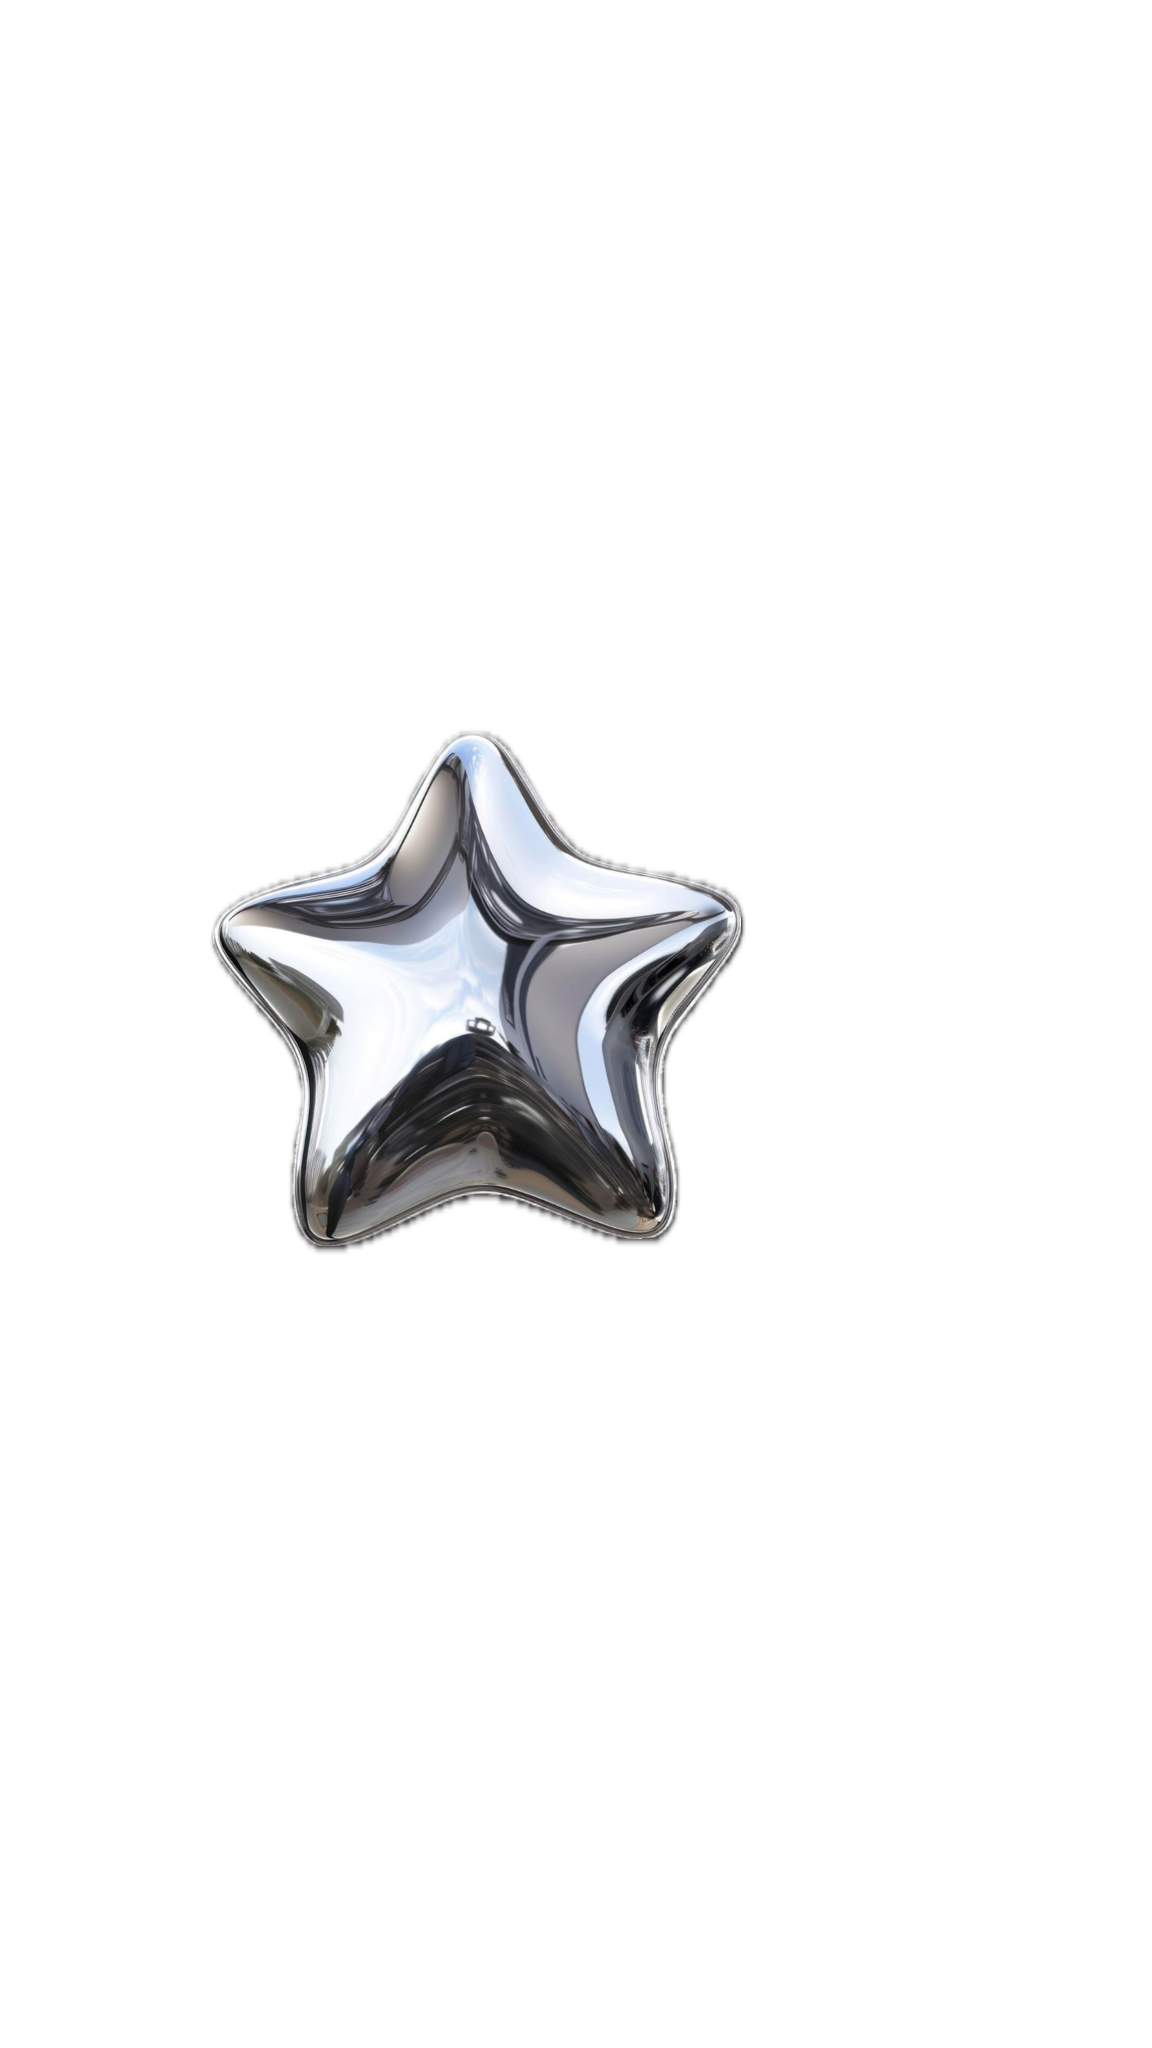
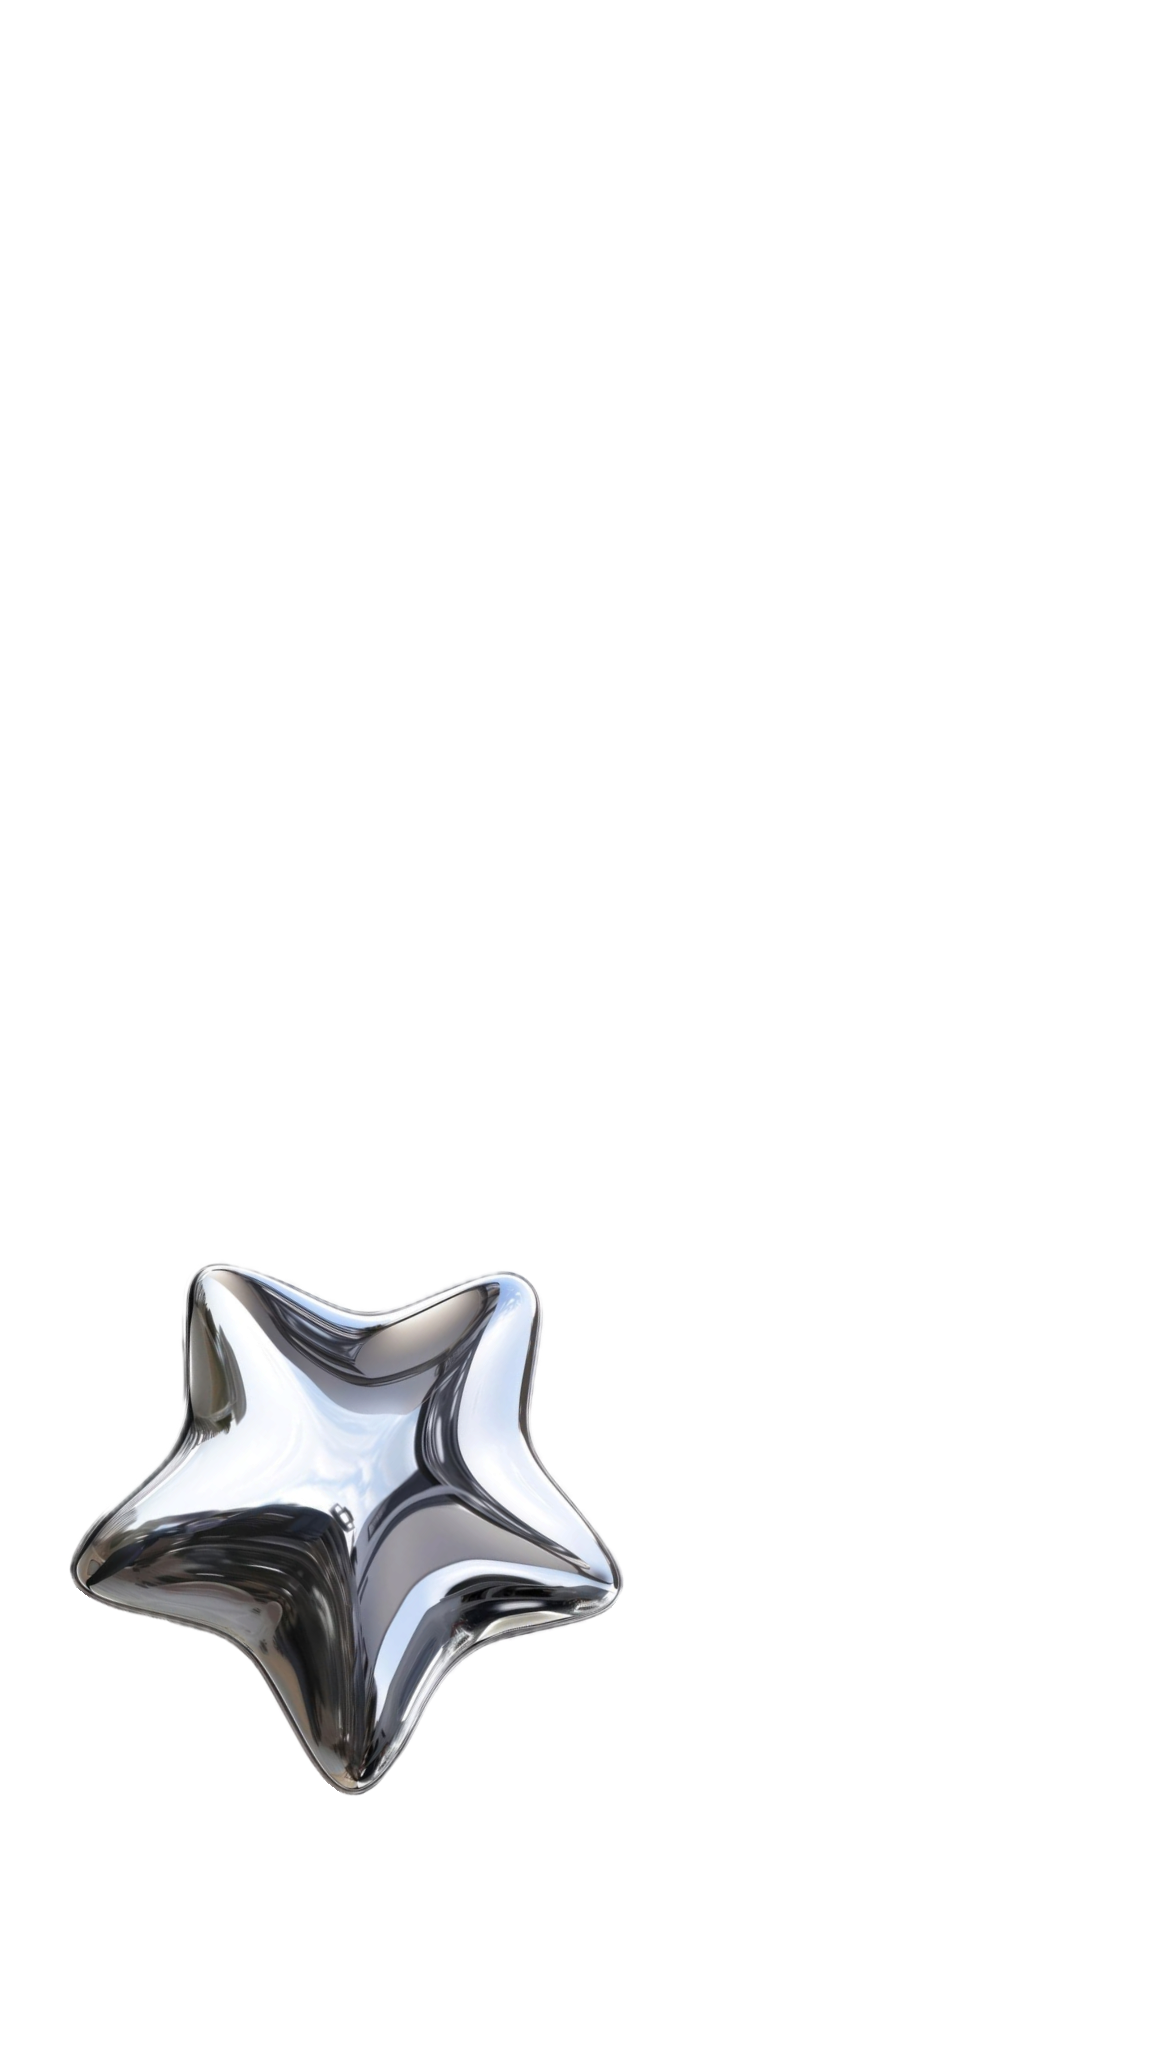
UI updates

Changed region(s): [[0.0625, 0.3438, 0.6562, 0.875]]

diff --git a/index.html b/index.html
@@ -292,7 +292,7 @@
       </div>
       <div class="featured-section">
         <a href="posts/data-migration.html" class="featured-visual">
-          <img src="assets/images/footer.png" alt="Chrome decorative element">
+          <img src="assets/images/web.png" alt="Chrome decorative element">
         </a>
         <div class="featured-content">
           <div class="featured-meta">

diff --git a/posts/data-migration.html b/posts/data-migration.html
@@ -354,7 +354,7 @@
           </div>
         </div>
 
-        <img class="sb-sigil" src="../assets/images/swirl.png" alt="">
+        <img class="sb-sigil" src="../assets/images/sidebar.png" alt="">
       </aside>
 
       <!-- POST -->

diff --git a/assets/style.css b/assets/style.css
@@ -142,11 +142,10 @@ footer {
 }
 
 .footer-chrome-bar img {
-  width: 100%;
+  width: 80%;
   height: 100%;
   object-fit: fill;
   object-position: center 35%;
-  opacity: 0.22;
 }
 
 .footer-chrome-bar::before,
